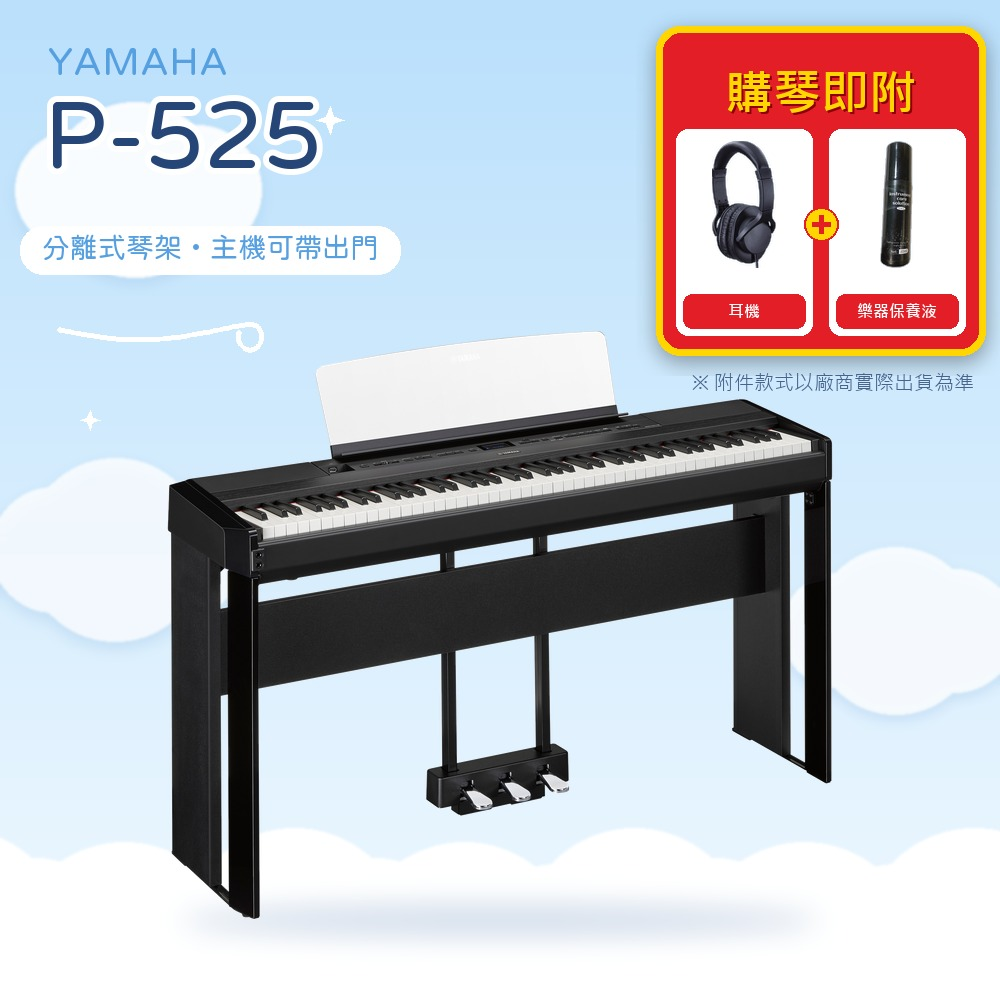
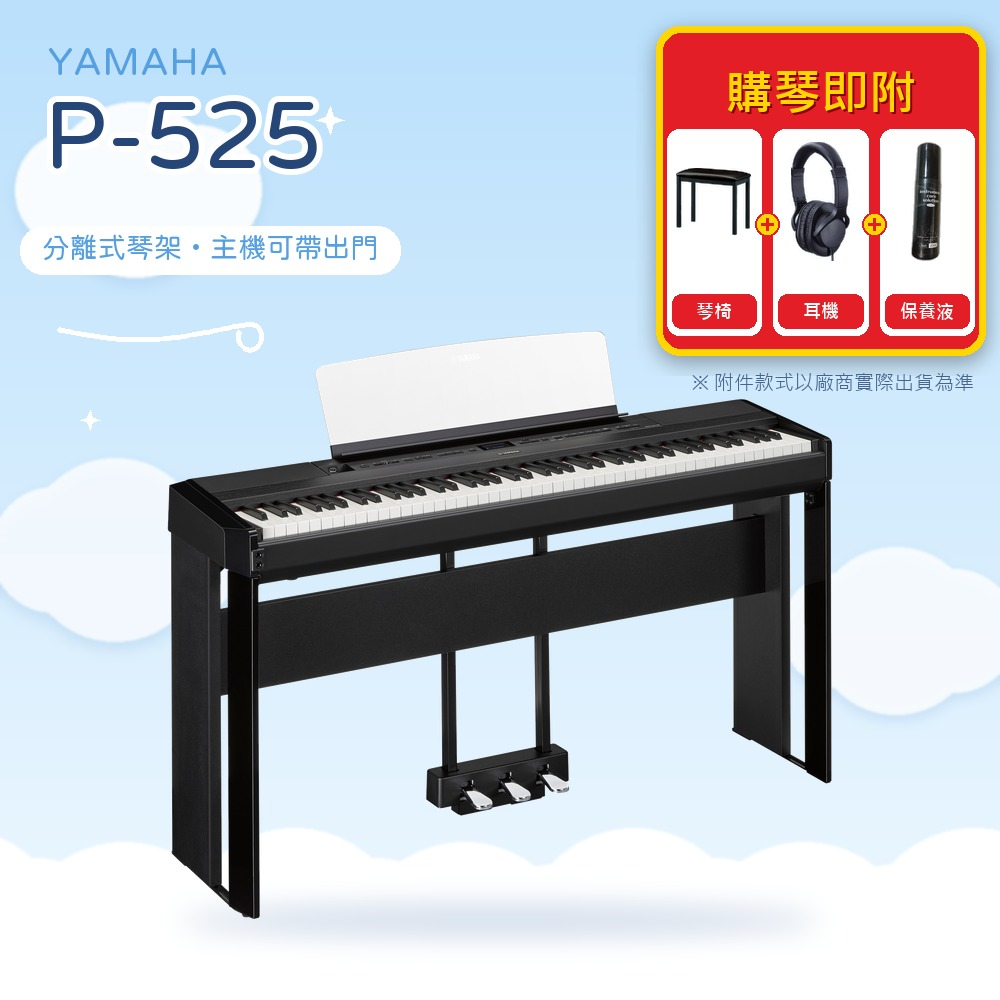
P-525: add bench to included items

Changed region(s): [[0.651, 0.124, 0.992, 0.341]]

diff --git a/piano/P-525/index.html b/piano/P-525/index.html
@@ -21,11 +21,11 @@ p{color:var(--sub);margin:0 0 12px;line-height:1.6}
 <div id="app"></div>
 <script>
 const S=[
- ["sky","電商・輕快風（天空／白雲／風）","第 1 張放首圖（附耳機＋保養液），黑白各一"],
+ ["sky","電商・輕快風（天空／白雲／風）","第 1 張放首圖（附琴椅＋耳機＋保養液），黑白各一"],
  ["apple","電商・蘋果風","同內容，乾淨灰白底"],
  ["web","官網・輕巧風","米白紙感＋紙飛機，跟電商明顯不同"]];
 const F={"sky": ["P525_1_main_BK.jpg", "P525_1_main_WH.jpg", "P525_2_cover.jpg", "P525_3_stand.jpg", "P525_4_features.jpg", "P525_d01_brand.jpg", "P525_d02_keys.jpg", "P525_d03_sound.jpg", "P525_d04_speakers.jpg", "P525_d05_headphones.jpg", "P525_d06_app.jpg", "P525_d07_record.jpg", "P525_d08_practice.jpg", "P525_d09_stand_pedals.jpg", "P525_d10_contents.jpg", "P525_d11_size.jpg", "P525_d12_spec.jpg", "P525_d90_notice_buy.jpg", "P525_d91_notice_return.jpg", "P525_d92_notice_remote.jpg"], "apple": ["P525_1_main_BK.jpg", "P525_1_main_WH.jpg", "P525_2_cover.jpg", "P525_3_stand.jpg", "P525_4_features.jpg", "P525_d01_brand.jpg", "P525_d02_keys.jpg", "P525_d03_sound.jpg", "P525_d04_speakers.jpg", "P525_d05_headphones.jpg", "P525_d06_app.jpg", "P525_d07_record.jpg", "P525_d08_practice.jpg", "P525_d09_stand_pedals.jpg", "P525_d10_contents.jpg", "P525_d11_size.jpg", "P525_d12_spec.jpg", "P525_d90_notice_buy.jpg", "P525_d91_notice_return.jpg", "P525_d92_notice_remote.jpg"], "web": ["P525_web_1_cover.jpg", "P525_d01_brand.jpg", "P525_d02_keys.jpg", "P525_d03_sound.jpg", "P525_d04_speakers.jpg", "P525_d05_headphones.jpg", "P525_d06_app.jpg", "P525_d07_record.jpg", "P525_d08_practice.jpg", "P525_d09_stand_pedals.jpg", "P525_d10_contents.jpg", "P525_d11_size.jpg", "P525_d12_spec.jpg", "P525_d90_notice_buy.jpg", "P525_d91_notice_return.jpg", "P525_d92_notice_remote.jpg"]};
 const N={"P525_1_main_BK.jpg": "首圖・黑", "P525_1_main_WH.jpg": "首圖・白", "P525_2_cover.jpg": "封面", "P525_3_stand.jpg": "分離式琴架", "P525_4_features.jpg": "四大強項", "P525_web_1_cover.jpg": "官網底圖", "P525_d01_brand.jpg": "品牌介紹", "P525_d02_keys.jpg": "木質琴鍵", "P525_d03_sound.jpg": "雙名琴音色", "P525_d04_speakers.jpg": "雙向喇叭", "P525_d05_headphones.jpg": "耳機", "P525_d06_app.jpg": "藍牙App", "P525_d07_record.jpg": "錄音", "P525_d08_practice.jpg": "練習功能", "P525_d09_stand_pedals.jpg": "琴架三踏板", "P525_d10_contents.jpg": "整套內容", "P525_d11_size.jpg": "尺寸", "P525_d12_spec.jpg": "規格", "P525_d90_notice_buy.jpg": "購買須知", "P525_d91_notice_return.jpg": "退貨須知", "P525_d92_notice_remote.jpg": "偏遠地區"};
-const v="?v=6";
+const v="?v=7";
 document.getElementById("app").innerHTML=S.map(([k,t,d])=>`<section><h2>${t}</h2><p>${d}</p><div class="grid">${F[k].map(f=>`<div class="card"><a href="${k}/${f}${v}" target="_blank"><img loading="lazy" src="${k}/${f}${v}" alt="${N[f]}"></a><div class="cap"><span>${N[f]}</span><a href="${k}/${f}" download>下載</a></div></div>`).join("")}</div></section>`).join("");
 </script></body></html>
